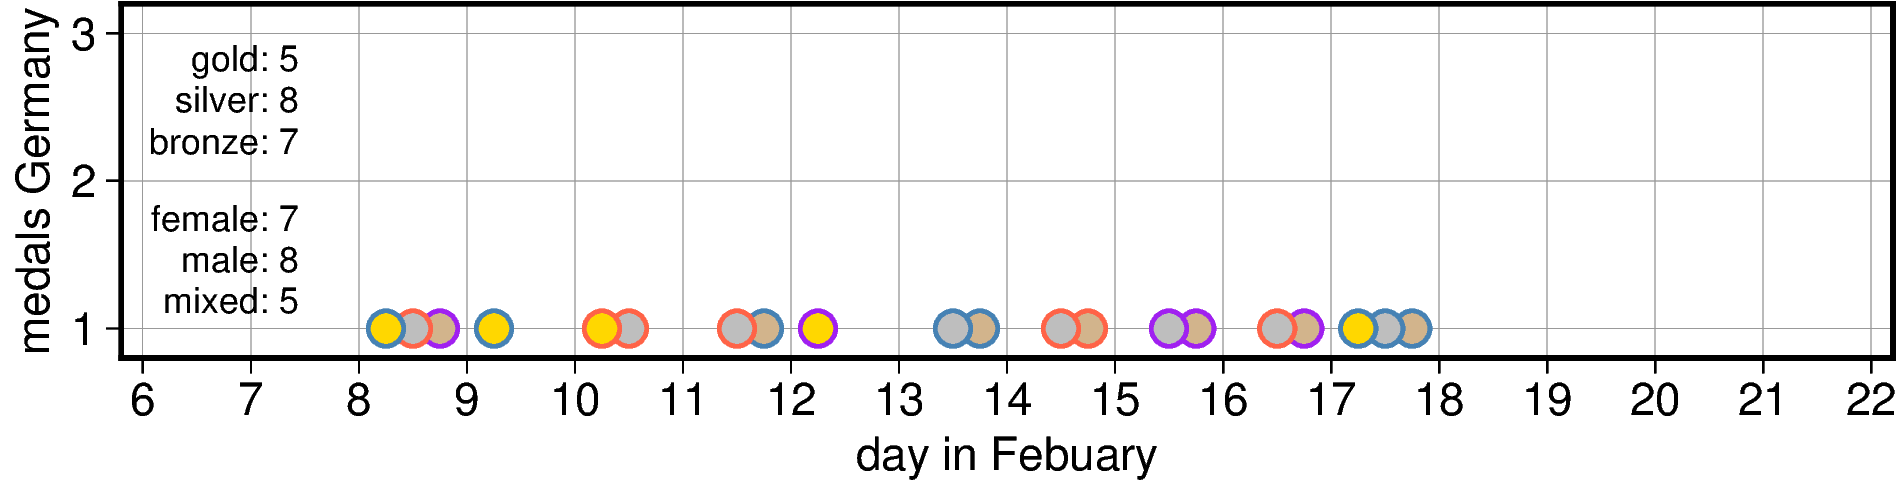
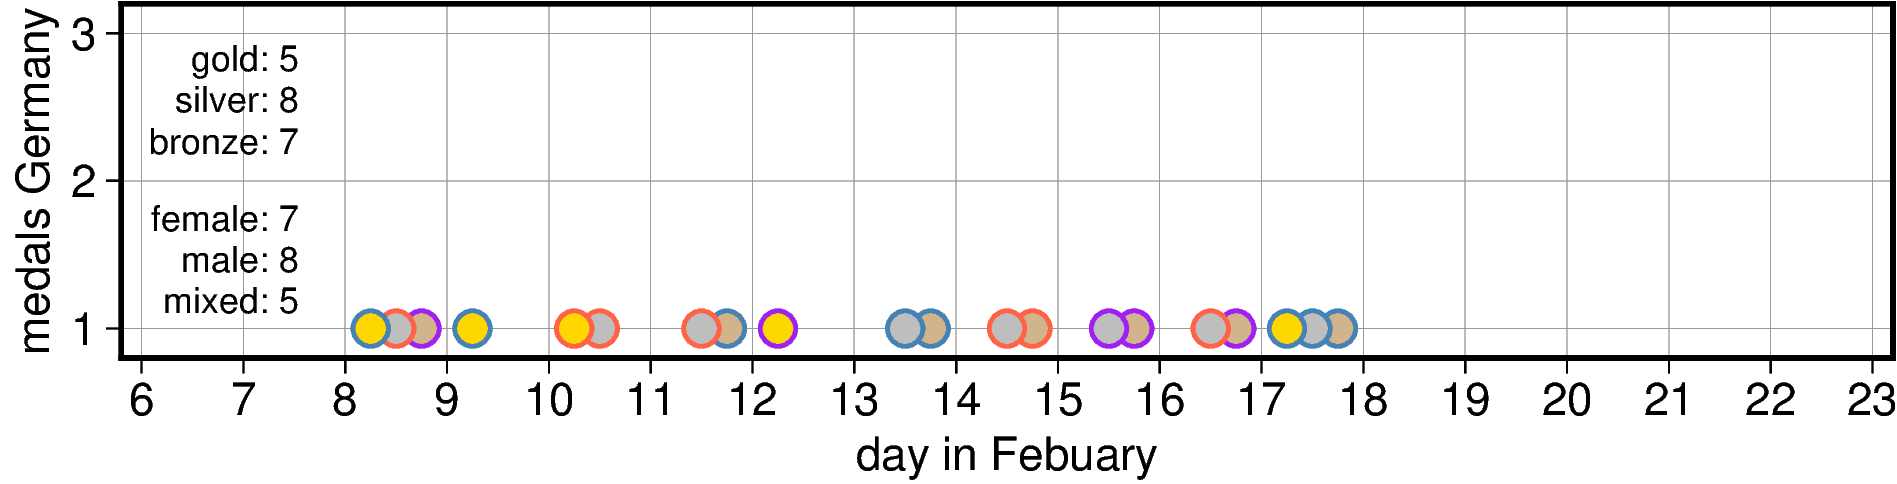
Adjust x axis

Changed region(s): [[0.1866, 0.6198, 0.7775, 0.7438], [0.2799, 0.7748, 1.0, 0.8678], [0.1244, 0.7748, 0.2488, 0.8678]]

diff --git a/016_winter_olympics_2026/05_medals_germany.py b/016_winter_olympics_2026/05_medals_germany.py
@@ -27,7 +27,7 @@ df_medals = pd.read_csv(f"{path_in}/medals_germany.txt", sep=";")
 fig = pygmt.Figure()
 with pygmt.config(MAP_GRID_PEN_PRIMARY="0.01p,gray60", FONT="11p"):
     fig.basemap(
-        region=[5.8, 22.2, 0.8, 3.2],
+        region=[5.8, 23.2, 0.8, 3.2],
         projection="X15c/3c",
         frame=["xa1g1+lday in Febuary", "ya1g1+lmedals Germany"],
     )
@@ -55,7 +55,7 @@ df_medals = pd.read_csv(f"{path_in}/medals_germany_02.txt", sep=";")
 fig = pygmt.Figure()
 with pygmt.config(MAP_GRID_PEN_PRIMARY="0.01p,gray60", FONT="11p"):
     fig.basemap(
-        region=[5.8, 22.2, 0.8, 3.2],
+        region=[5.8, 23.2, 0.8, 3.2],
         projection="X15c/3c",
         frame=["xa1g1+lday in Febuary", "ya1g1+lmedals Germany"],
     )
